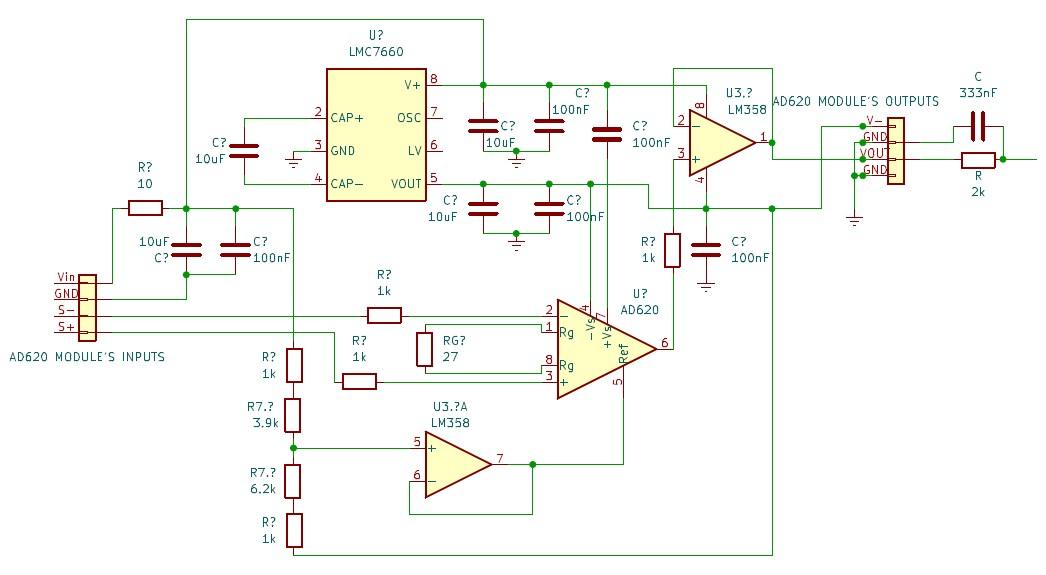
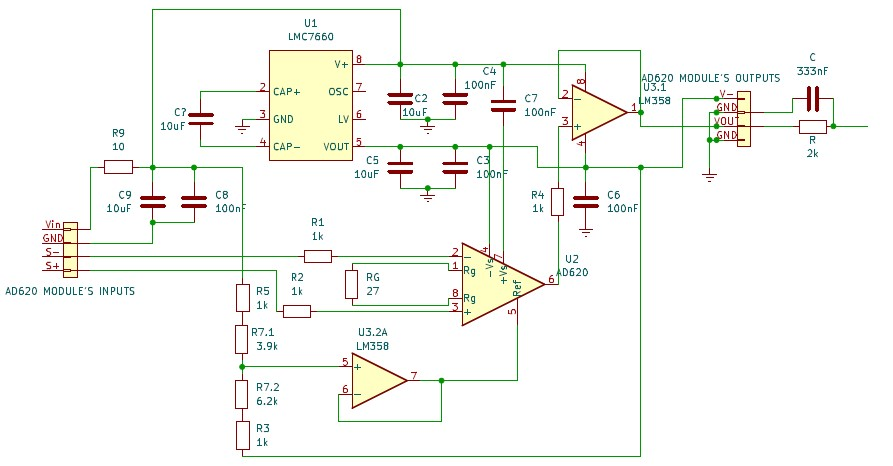
README.md update

Changed region(s): [[0.0, 0.0, 0.9978, 0.9914]]

diff --git a/electronics/amplifier/README.md b/electronics/amplifier/README.md
@@ -1,8 +1,9 @@
 # Amplifier
 
 The amplifier used in this system is an analogic amplifier, AD620 module.  
-![AD620 module](images/AD620_module.jpg)
-![AD620 schematic](images/AD620_schematic.jpg)
+![AD620 module](images/AD620_module.jpg)*AD620 module*
+![AD620 schematic](images/AD620_schematic.jpg)  
+*AD620 module electronic schematic*
 
 It has two potentiometers allowing the user to tune both the offset and the gain of the input signal.
 
@@ -11,29 +12,25 @@ Thus, it is necessary to filter the output signal from the amplifier before send
 
 ## Filter the noise
 
----
-
 The noise created by the AD620 module has a frequency around 4.5kHz and has a amplitude of 120 mV. Thus, a low pass filter with a cutoff frequency of 4kHz will be necessary.  
 ![noise](images/Noise.JPG)  
 *Output Signal of the AD620 module when connected to the loadcell*
 
 ### Low Pass Filter
 
----
-
 The filter that we need to implement has to respect some constraints :
 
 * have a cutoff frequency of at most 4kHz -> have the good ratio between the capacitor and the resistor
-* be reactive enough to allow an acquisition (2kHz) -> use a capacitor with a not too high value
-* not have an impedance too high compared to the microcontroller one (5%) -> use a resistor with a not too high value
+* be reactive enough to allow an acquisition -> use a capacitor with a not too high value
+* not have an impedance too high compared to the microcontroller one -> use a resistor with a not too high value
 
 The filter implemented is an order 1 low pass filter composed by a capacitor and a resistor.
 We can determine its cutoff frequency with the following equation :  
 f<sub>c</sub> = 1/R*C
 
-## Calibration
+Thus, this filter is composed by a 2kΩ resistor and a 333nF capacitor.
 
----
+## Calibration
 
 The force range the system has to detect is from -5N to 25N. Knowing our microprocessor has a maximum input voltage of 3.3V we will tune the gain and the offset in order to have the maximum amplitude between the voltage corresponding to a -5N force and the one corresponding to a 25N force.
 
@@ -51,7 +48,8 @@ This one doesn't create a voltage divider but still allow the variation of a res
 
 ## Wiring
 
-First replace the potentiometers by the resistors determined earlier. Then,  add the components of the low pass filter on the output pin.
+First replace the potentiometers by the resistors determined earlier. Then, add the components of the low pass filter on the output pin.
 Finally, connect the new output to the OpenCM board
 
-![new schema](images/AD620_module_modified.jpg)
+![new schema](images/AD620_module_modified.jpg)  
+*AD620 module electronic schematic with potentiometers replaced by resistors*

diff --git a/plot_ws/README.md b/plot_ws/README.md
@@ -43,16 +43,14 @@ ros2 run plotjuggler plotjuggler
 
 The messages received and published by the node are custom messages described [here](src/thrust_msgs/msg/Thrust.msg).
 
-* To send a thrust command to the system  
-enter the desired value in the **thrust_command** entry  
-enter 0 in the **mode** entry
+According to the value of the **mode** in your message, the action realised by the system will not be the same :
 
-* To tune the controller  
-enter the desired parameters in their corresponding entry
-enter 1 in the **mode** entry
+|Mode|Action|
+|-----|-------|
+|0|Send a command to the ESC|
+|1|Send a controller configuration|
+|2|Disable the controller and stop the motor|
+|3|Tare the load cell|
 
-* To tare the load cell  
-enter 3 in the **mode** entry
-
-* To disable the controller  
-enter 2 in the **mode** entry
+To send a command, use the **thrust_command** variable.  
+To send a configuration, fill each parameter with the desired values. 

diff --git a/README.md b/README.md
@@ -40,6 +40,8 @@ The motor is fixed to the loadcell with a screw.
 
 The amplifier module has been modified to ensure the repetability of the system. [Here](electronics/amplifier/README.md) is the detail of its modification.
 
+## Upload the program in the microcontroller
+The board used can be used with the arduino IDE by following [these steps](electronics/microcontroller/README.md)
 ## Code 
 
 To send commands to the motor, read the data from the system, and change configuration of the controller, follow [these steps](plot_ws/README.md)

diff --git a/electronics/microcontroller/README.md b/electronics/microcontroller/README.md
@@ -1,1 +1,10 @@
-# MCU
+# OpenCM 9.04
+This component is the heart of the system. It allows :
+* The communication between the PC and the ESC
+* The gathering and the filtering of the thrust values
+* The implementation of the control loop
+
+## Requirement
+To upload code in the microcontroller it is necessary to have :
+* The Arduino IDE [installed](https://www.arduino.cc/en/software)
+* The OpenCM 9.04 [installed](https://emanual.robotis.com/docs/en/parts/controller/opencm904/#arduino-ide)

diff --git a/electronics/README.md b/electronics/README.md
@@ -20,6 +20,8 @@ This part sums up all the components used in this system and how they are assemb
 
 ## Wiring
 
-![Block_wiring](images/thrust_control_schematic_block.jpg)
+![Block_wiring](images/thrust_control_schematic_block.jpg) 
+*Blocks schematic of the system*
 
 ![Global Wiring](images/thrust_control_schematic.jpg)
+*Electronic schematic of the thrust controller (with the modification of the A620 module)*

diff --git a/electronics/esc/README.md b/electronics/esc/README.md
@@ -10,8 +10,6 @@ The protocol used to communicate between the microcontroller and the ESC is the 
 
 ## OneShot125
 
----
-
 This protocol allow us to send data to the ESC up to a frequency of 4kHz.
 With it, the length of the pulse corresponds directly to the speed of the motor using a 125μs pulse to stop the motor and a 250μs pulse to set it to the max value.
 
